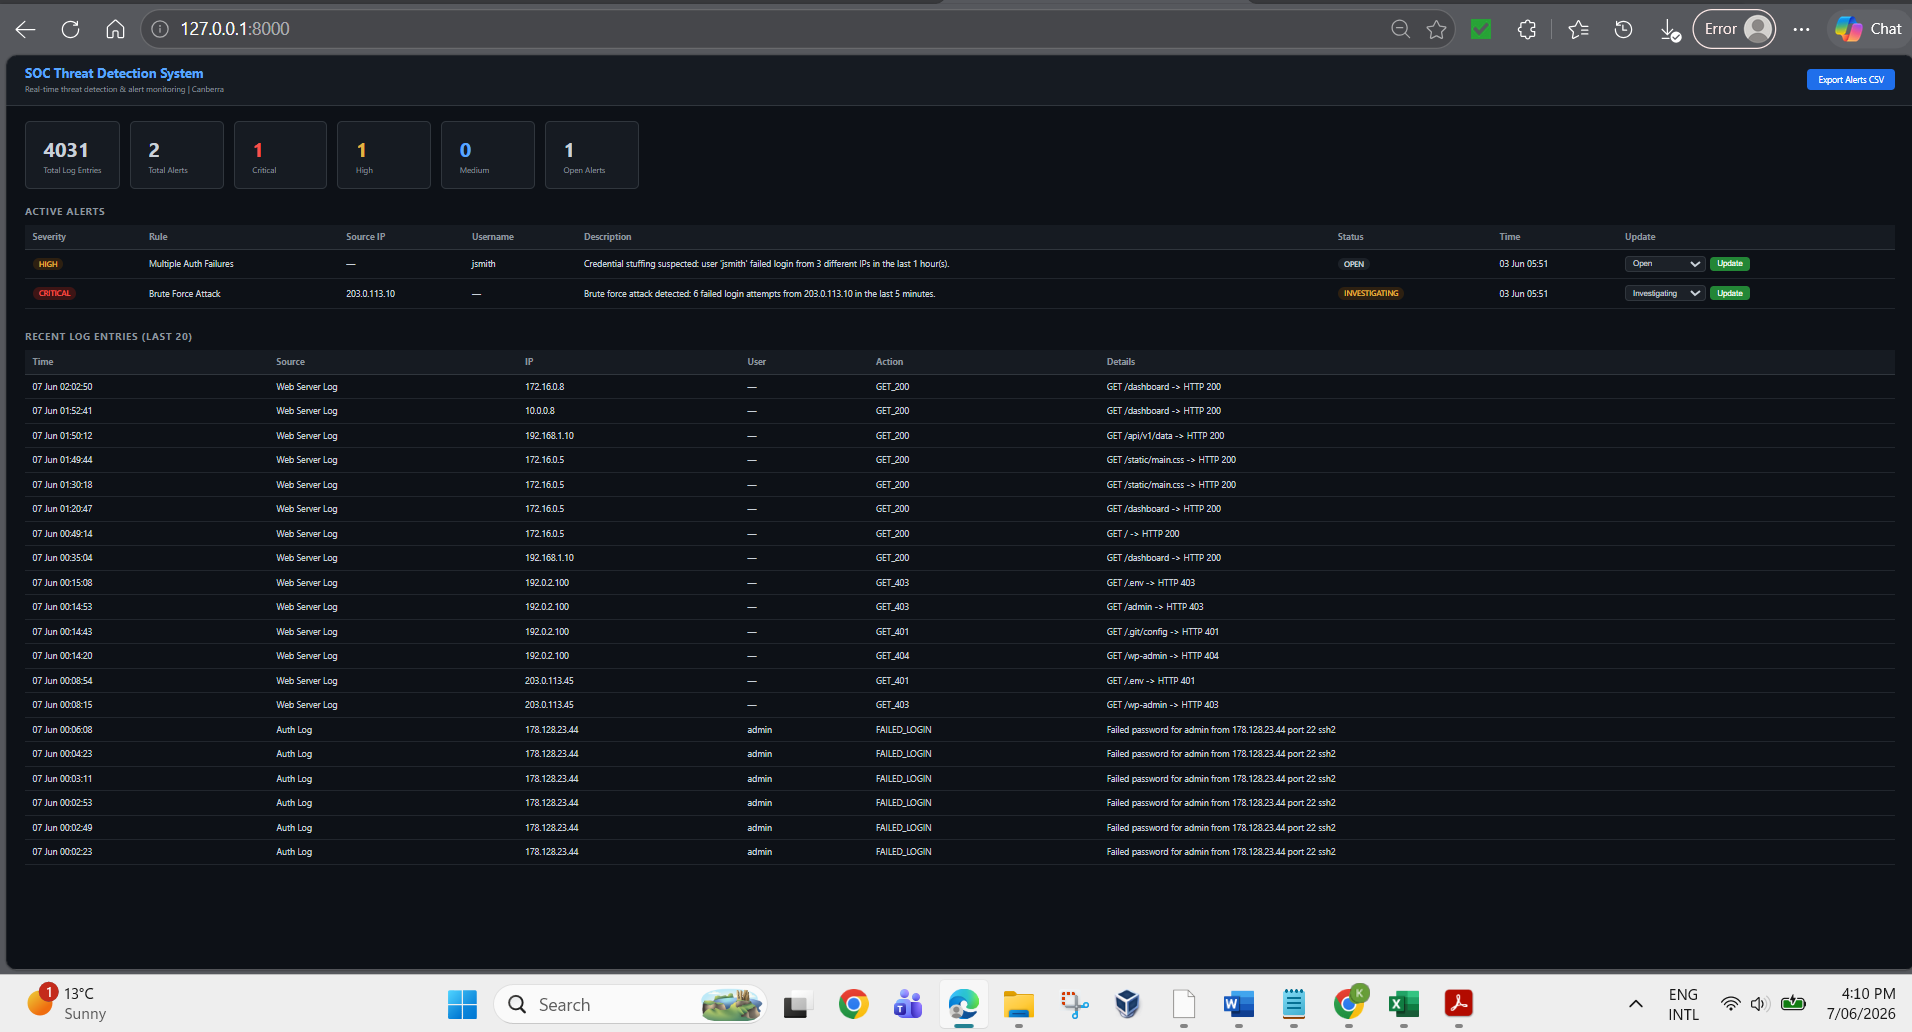
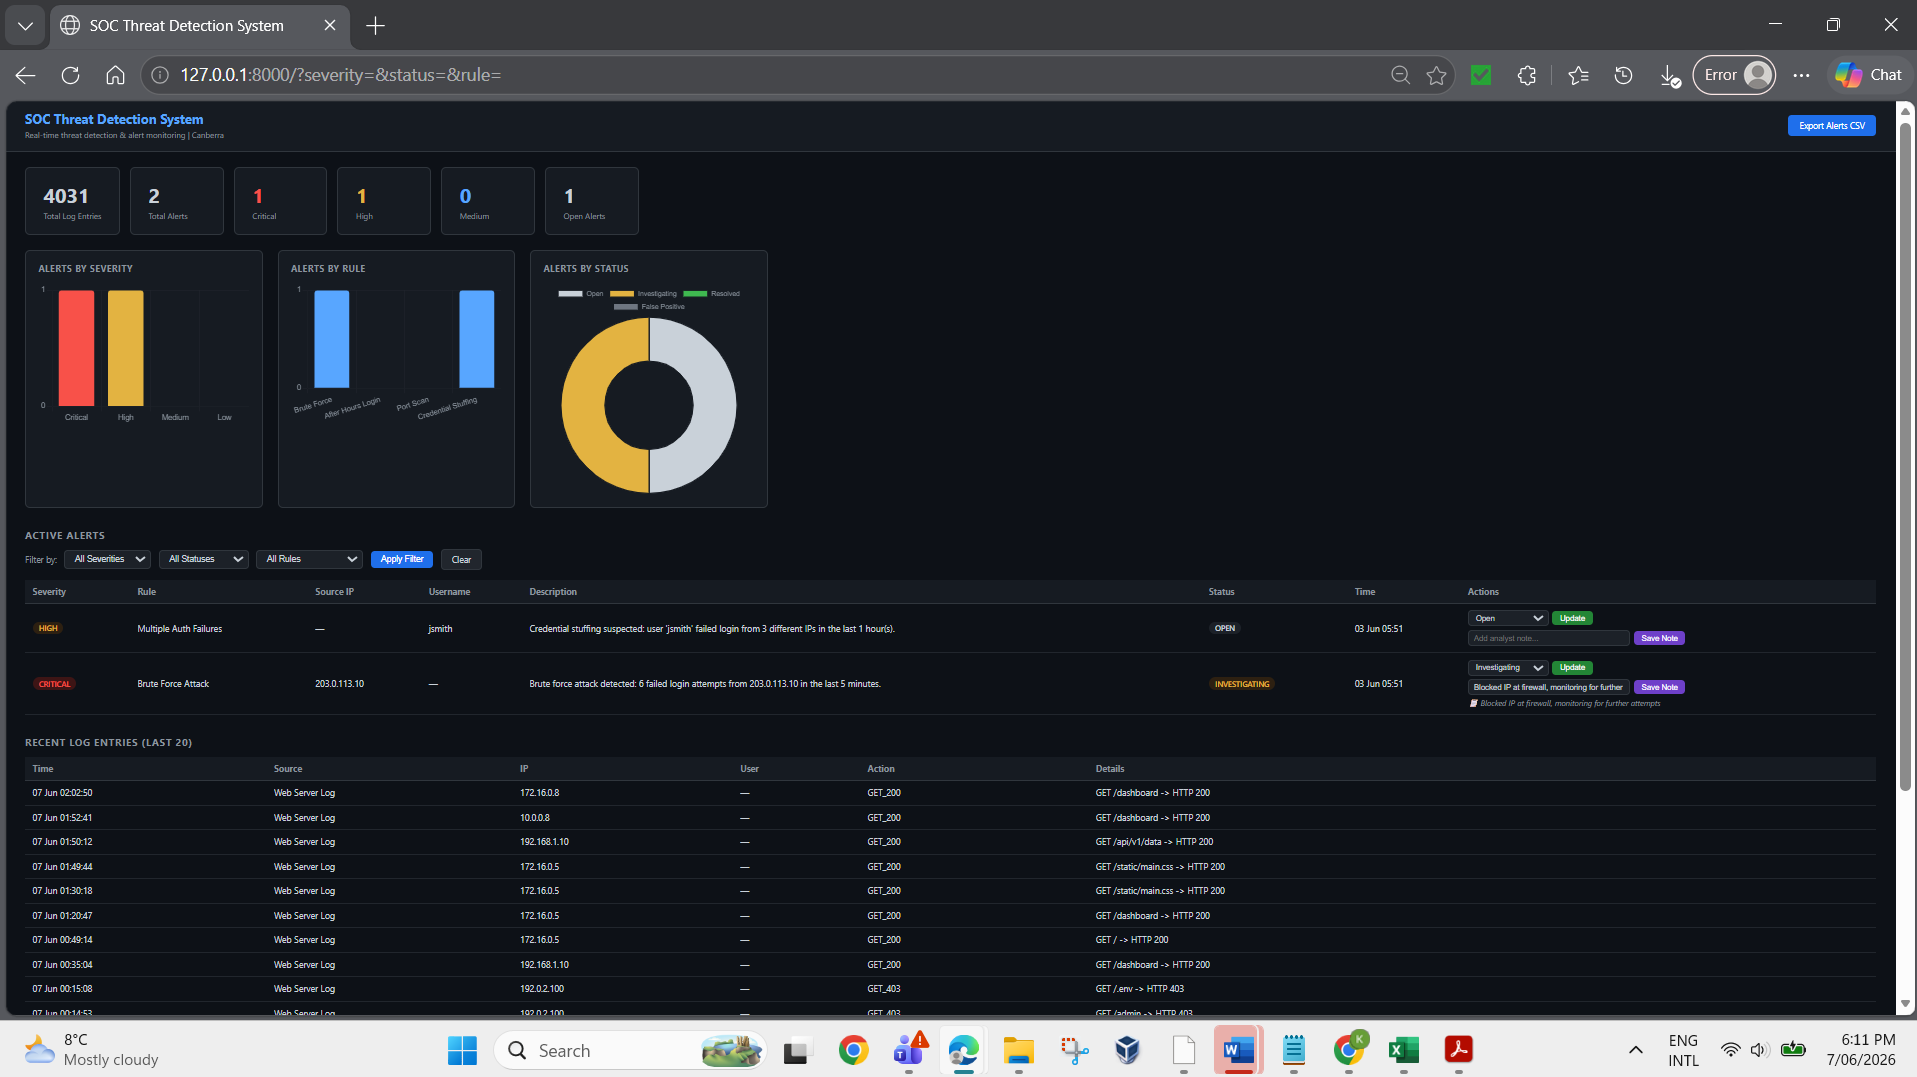
Update README and screenshot - add analyst notes, filtering and charts features

diff --git a/README.md b/README.md
@@ -22,12 +22,16 @@ Built as a portfolio project demonstrating core SOC/SIEM concepts.
   - Credential stuffing detection
 - **Security dashboard** — real-time alert display with severity classification
 - **Alert management** — open/investigating/resolved/false positive status tracking
+- **Analyst notes** — document incident response actions on each alert
+- **Alert filtering** — filter by severity, status, and rule type
+- **Statistics charts** — visual bar and doughnut charts for severity, rule, and status breakdowns
 - **CSV export** — download all alerts with auto-generated timestamp filename
 - **Realistic log generator** — Python script simulating 4000+ log lines with real attack scenarios
 
 ## Tech Stack
 
 - Python 3, Django, SQLite
+- Chart.js (statistics visualisation)
 - Custom log parsers (regex-based)
 - Django management commands for log ingestion
 - HTML/CSS dashboard (dark SOC theme)
@@ -68,8 +72,8 @@ soc-threat-detection-system/
 ├── alerts/
 │   ├── models.py                      # Alert model
 │   ├── rules.py                       # Detection rules engine
-│   └── views.py                       # Dashboard + CSV export views
-├── templates/dashboard/               # Dashboard UI
+│   └── views.py                       # Dashboard + all views
+├── templates/dashboard/               # Dashboard UI with Chart.js
 ├── sample_logs/                       # Test log files
 └── generate_logs.py                   # Realistic log generator script
 ```
@@ -77,20 +81,19 @@ soc-threat-detection-system/
 ## Development Log
 
 ### Week 1-2 — Project Setup & Initial Deployment
-
-Built the core Django project structure with two apps — `logs` for ingesting and parsing security log files, and `alerts` for storing and displaying security alerts. Implemented custom log parsers using regex to handle three log formats: Linux auth logs, firewall logs, and Apache/Nginx web server logs. Created four automated detection rules covering brute force attacks, port scanning, credential stuffing, and after-hours logins. Built a dark-themed SOC dashboard displaying real-time alerts with severity classification. Pushed the full project to GitHub with clean commit history.
+Built the core Django project structure with two apps — `logs` for ingesting and parsing security log files, and `alerts` for storing and displaying security alerts. Implemented custom log parsers using regex to handle three log formats: Linux auth logs, firewall logs, and Apache/Nginx web server logs. Created four automated detection rules covering brute force attacks, port scanning, credential stuffing, and after-hours logins. Built a dark-themed SOC dashboard displaying real-time alerts with severity classification.
 
 ### Week 3-4 — Alert Management & Reporting
-
 Added analyst workflow to the SOC dashboard. Security alerts can now be updated through four status stages — Open, Investigating, Resolved, and False Positive — mirroring real SOC triage processes. Added a one-click CSV export feature that downloads all current alerts with auto-generated timestamp filenames, enabling incident reporting and audit trail documentation.
 
 ### Week 5-6 — Realistic Dataset & Log Generator
-
-Built a Python log generator script (`generate_logs.py`) that simulates realistic security attack scenarios instead of relying on a downloaded dataset. The script generates 4000+ log lines across three log types — auth, firewall, and web server logs. Five attack scenarios are simulated: SSH brute force attacks, credential stuffing from multiple IPs, after-hours logins, port scanning reconnaissance, and web application probing. Normal legitimate traffic is mixed in at 60-75% to make the dataset realistic. Running the generator and ingesting the logs produces a dashboard showing 4000+ real-looking security events with multiple alerts firing automatically.
+Built a Python log generator script (`generate_logs.py`) that simulates realistic security attack scenarios. The script generates 4000+ log lines across three log types. Five attack scenarios are simulated: SSH brute force attacks, credential stuffing from multiple IPs, after-hours logins, port scanning reconnaissance, and web application probing. Normal legitimate traffic is mixed in at 60-75% to make the dataset realistic.
 
 ### Week 7-8 — Polish & Portfolio Ready
+Added dashboard screenshot to README. Cleaned up repository with proper `.gitignore`. Project fully portfolio-ready with clean commit history and comprehensive documentation.
 
-Added dashboard screenshot to README. Cleaned up repository — removed compiled Python cache files, database file, and helper scripts from version control. Added `.gitignore` to prevent junk files from being committed in future. Project is now fully portfolio-ready with clean commit history, comprehensive documentation, and a working live demo.
+### Extended Features — Analyst Tools & Visualisation
+Added three additional features: analyst notes for documenting incident response actions on each alert, alert filtering by severity/status/rule type, and statistics charts (severity bar chart, rule bar chart, status doughnut chart) using Chart.js.
 
 ---
 